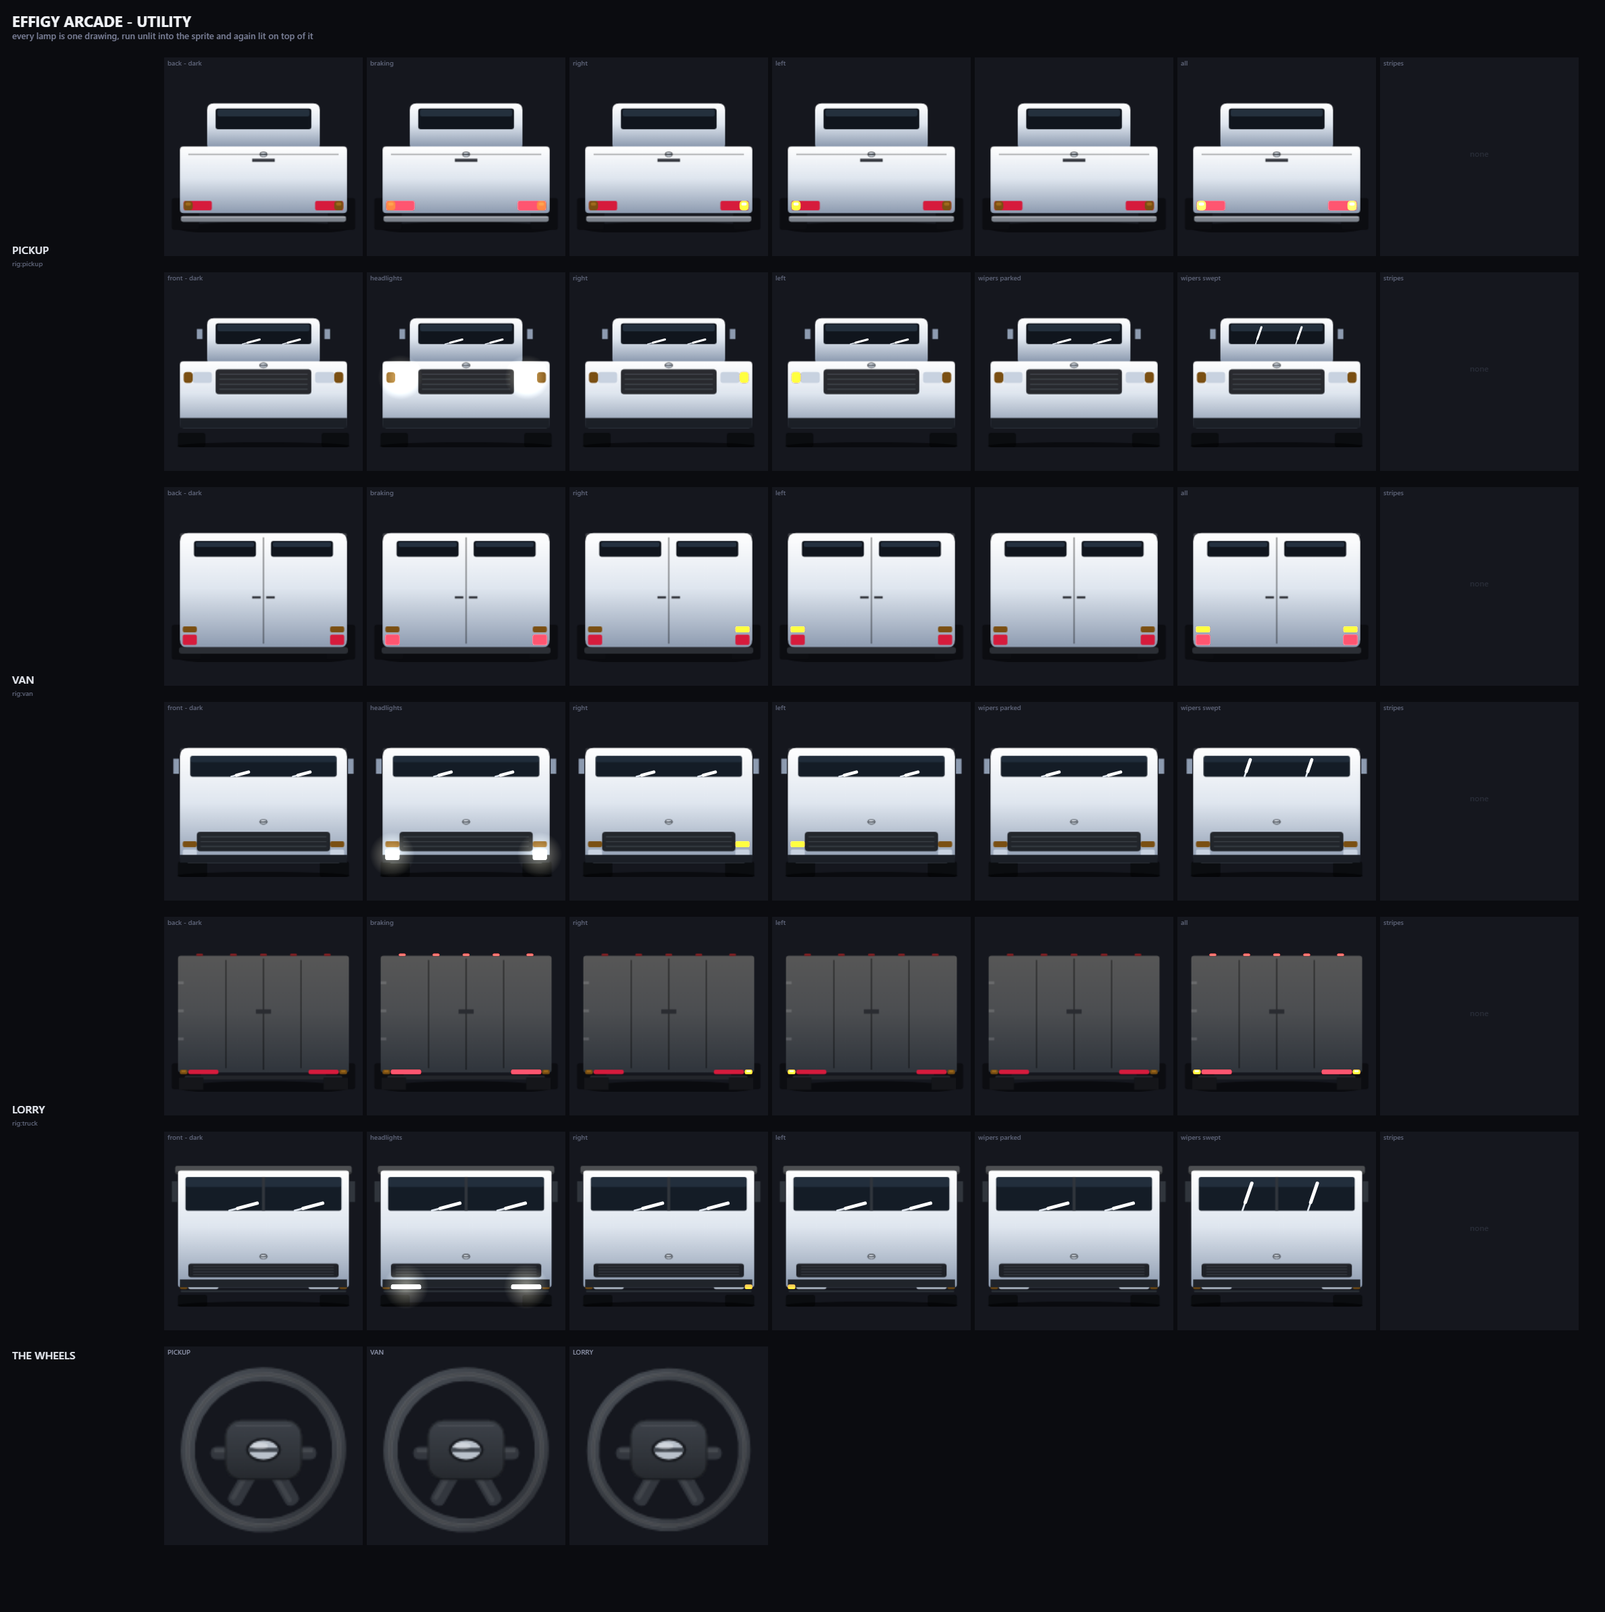
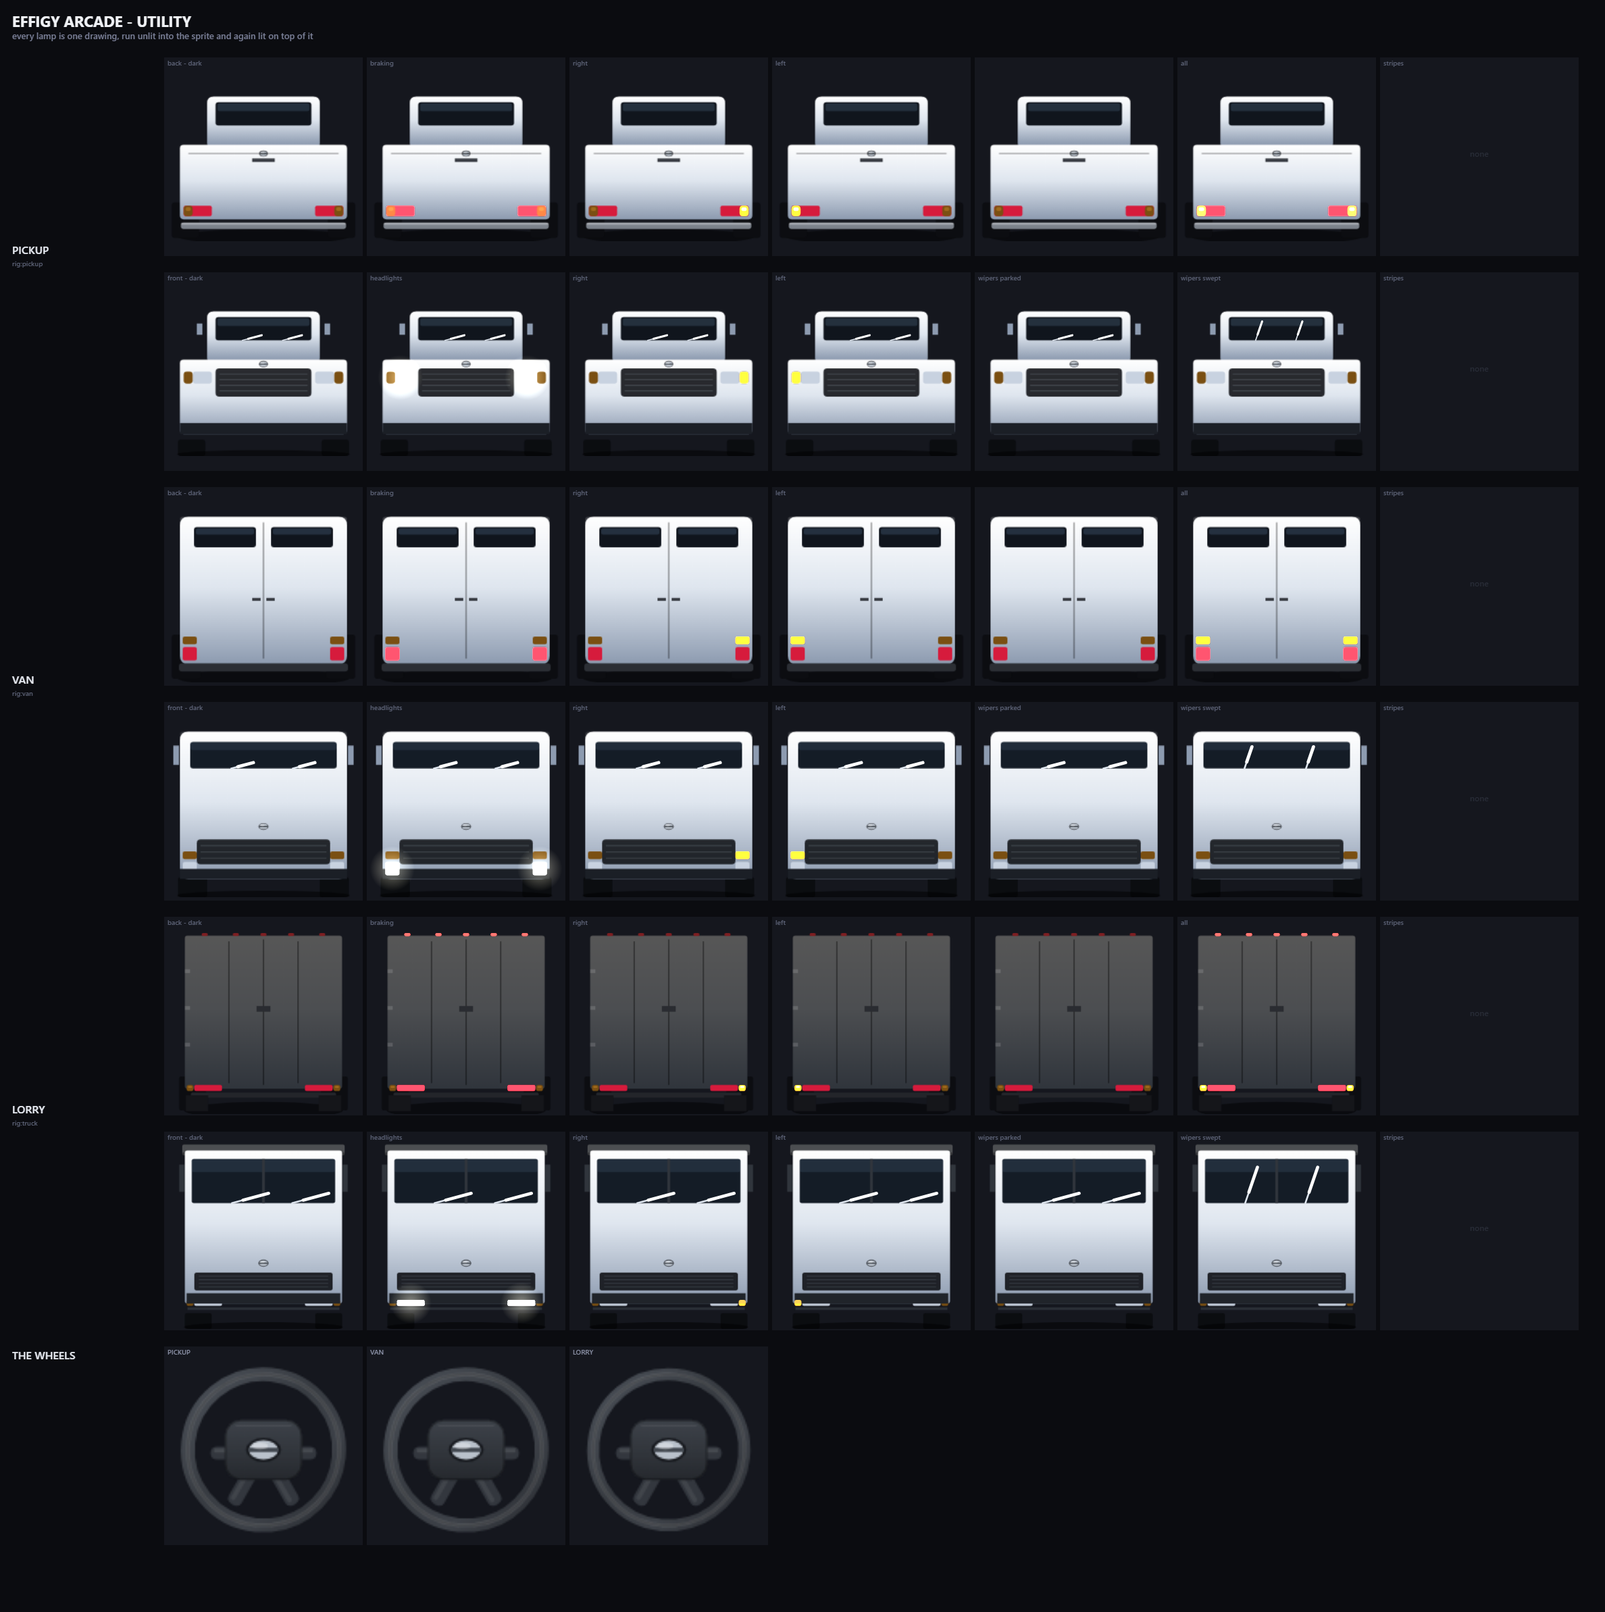
fix: one sprite box per shape, read by everything (RLG-072, v0.9.44)
The garage's two views were never misaligned. They were DIFFERENT SHAPES, and
two attempts to place them better could not have worked because placement was
never the fault. The owner said so three times.

`buildSprites` paints a road car's TAIL into that shape's own canvas - a
ROADSTER is 206x150 - and I had written its FACE into a flat 220x168. The same
car in two canvases of different aspect ratio comes out with different
proportions, and no amount of aligning boxes, floors or widths brings two
different shapes into agreement.

Measured properly, the painters agree with each other exactly: every road car
draws both ends into the same canvas at the same top row, and a supercar's two
ends are 143 rows tall in both of their differently-sized canvases. That is what
the owner meant by asking whether the fronts and rears had not been measured to
the same dimensions. They had. The garage was not using them that way.

The same flat 220x168 was in three other places, put there by the same hand for
the same reason: the rival front cache, the rival REAR cache, and the fleet
sheet. So every sports-class rival on the road has been drawn at the wrong
aspect ratio against the traffic version of the same shape. There is one
`rigBox(rig)` now and everything reads it.

Measured after: the two ends of a ROADSTER differ by 2 pixels in roof height, 0
in floor line and 2 in width, on a car drawn 126 wide. The waistline is 4 apart,
[…]

diff --git a/road.js b/road.js
@@ -80,7 +80,7 @@ const PLAYER_Z = CAM_H*CAM_D;
    worker serves scripts network-first with a cache fallback, so a device can end
    up with a fresh shell beside a cached engine, and the tag says MIXED when it
    does. Bumped with `Arcade.version`, in the same commit, every time. */
-window.ROAD_BUILD = '0.9.43';
+window.ROAD_BUILD = '0.9.44';
 
 const LANE_X = [-0.75,-0.25,0.25,0.75];
 /* ---- ONE LANE, and the unit every lateral move is written in ---------------
@@ -4310,12 +4310,35 @@ function rivalFront(bodyKey, paintKey){
   const rs = BODY[bodyKey], pt = PAINT[paintKey];
   if(!rs || !pt) return (RIVAL_FRONT_SP[k] = null);
   const L = { lamp:'#d61b3c', lamp2:'#ff7a86', player:true, marque:rs.rear };
+  const rz = rs.rig ? rigBox(rs.rig) : null;
   RIVAL_FRONT_SP[k] = rs.rig
-    ? sprite(220,168, paintRigFront(rs.rig, Object.assign({}, L, pt)))
+    ? sprite(rz[0], rz[1], paintRigFront(rs.rig, Object.assign({}, L, pt)))
     /* `bodyType`, not `kind` - `paintFront` reads the body from there, and
        passing the wrong field is what once put one nose on five supercars */
     : sprite(230,215, paintFront(Object.assign({ bodyType:bodyKey }, L, pt)));
   return RIVAL_FRONT_SP[k];
+}
+
+/* ---- A RIG'S SPRITE BOX, IN ONE PLACE -----------------------------------
+   Every road-car shape has its own canvas size, and getting it wrong does not
+   throw - it draws the same car at a different aspect ratio, which looks like a
+   layout fault and is not one. The garage found it: a ROADSTER's tail is
+   painted into 206x150 and its face was being painted into 220x168, so the two
+   ends of one car had different proportions and no amount of placing them could
+   line them up.
+
+   The table was already written down three times - in `buildSprites`, in the
+   traffic build and in the fleet sheet - and the fourth copy was the one that
+   was wrong. There is one now.
+   ------------------------------------------------------------------------- */
+function rigBox(rig){
+  return rig === 'muscle' ? [210,158]
+       : rig === 'cop'    ? [200,164]
+       : rig === 'van'    ? [200,196]
+       : rig === 'pickup' ? [206,176]
+       : rig === 'truck'  ? [230,250]
+       : rig === 'sedan' || rig === 'taxi' ? [200,164]
+       : [206,150];
 }
 
 function buildSprites(){
@@ -4331,13 +4354,7 @@ function buildSprites(){
        one on the road. The traffic tables have always had these numbers; the
        player build was the only place that did not use them.
        ------------------------------------------------------------------- */
-    const rz = shape.rig === 'muscle' ? [210,158]
-             : shape.rig === 'cop'    ? [200,164]
-             : shape.rig === 'van'    ? [200,196]
-             : shape.rig === 'pickup' ? [206,176]
-             : shape.rig === 'truck'  ? [230,250]
-             : shape.rig === 'sedan' || shape.rig === 'taxi' ? [200,164]
-             : [206,150];
+    const rz = rigBox(shape.rig);
     /* ---- THE TRAILER IS THE COLOUR, MUCH DARKER -------------------------
        It used to be a fixed beige panel, on the grounds that a lorry's box is
        the part that never changes. Owner, 2026-08-29: let it inherit a much
@@ -4358,7 +4375,8 @@ function buildSprites(){
       paintRig(shape.rig, Object.assign({ lamp:'#d61b3c', lamp2:'#ff7a86',
                                           player:true, marque:shape.rear,
                                           stripes:optStripes && stripesAllowed() }, rigPaint)));
-    SP.playerFront = sprite(220,168,
+    /* the SAME box as its tail. A different one is a different car. */
+    SP.playerFront = sprite(rz[0], rz[1],
       paintRigFront(shape.rig, Object.assign({ lamp:'#d61b3c', lamp2:'#ff7a86',
                                           player:true, marque:shape.rear,
                                           stripes:optStripes && stripesAllowed() }, rigPaint)));
@@ -4405,7 +4423,7 @@ function buildSprites(){
          A rig body goes through `paintRig`, the same painter its NPC version
          uses. */
       RIVAL_SP[bk+'|'+k] = rs.rig
-        ? sprite(220,168, paintRig(rs.rig, Object.assign({
+        ? sprite(rigBox(rs.rig)[0], rigBox(rs.rig)[1], paintRig(rs.rig, Object.assign({
             player:true, marque:rs.rear,
             lamp:'#d61b3c', lamp2:'#ff7a86'
           }, PAINT[k])))
@@ -11241,29 +11259,32 @@ function drawGarageCar(){
     return bx;
   };
 
-  /* ---- ONE CAR IS ONE WIDTH ---------------------------------------------
-     Drawing both ends at a SINGLE scale still looked wrong, and the owner was
-     right about it twice. The two painters do not draw the car at the same
-     size inside their own canvases: at one scale the front came out about nine
-     per cent wider and taller than the back, which reads as two different cars
-     rather than as two views of one.
+  /* ---- THE PAINTERS ALREADY AGREE. MEASURE, DO NOT CORRECT --------------
+     Two attempts at this were wrong in the same way: both assumed the front
+     and the rear disagreed about how big the car is, and set about correcting
+     it. Measured, they do not disagree. Every rig body draws its front and its
+     rear into the SAME canvas at the SAME top row - a COUPE is rows 37 to 164
+     from behind and 37 to 167 from the front - and a supercar's two ends are
+     143 rows tall in both of their different canvases.
 
-     A car is the same WIDTH from either end - that is the one dimension both
-     views share, and the one a person checks. So each end gets its own scale,
-     chosen so their solid bodywork comes out the same width, and the pair is
-     then sized so the taller of the two still fits the card. Height is left to
-     differ, because a front view genuinely is taller: it has a windscreen and
-     a roofline where the back has a boot lid.
+     What differs is where each view is WIDEST: a rear is widest at its
+     shoulder, about seven tenths of the way down, and a front is widest at its
+     bumper, about nine tenths. Normalising the two to a common WIDTH therefore
+     scales two different features to the same size and pulls the whole car
+     with them - which is what made the front nine per cent bigger and its
+     roofline sit high.
+
+     So: ONE scale for the pair, and each placed by its own content bottom.
+     Nothing is corrected, because there is nothing to correct.
      ------------------------------------------------------------------- */
   const FLOOR = 124, HALF = 150, PAD = 12;
   const pair = front ? [back, front] : [back];
   const boxes = pair.map(bounds);
-  /* the widest the pair can be drawn with the tallest of them still fitting */
-  let targetW = HALF - PAD*2;
-  for(const bx of boxes) targetW = Math.min(targetW, (FLOOR - 8) * (bx.w / bx.h));
+  const maxW = Math.max.apply(null, boxes.map(b => b.w));
+  const maxH = Math.max.apply(null, boxes.map(b => b.h));
+  const sc = Math.min((HALF - PAD*2) / maxW, (FLOOR - 8) / maxH);
   const put = (img, box, cx) => {
     if(!img) return;
-    const sc = targetW / box.w;
     /* place the CONTENT: its centre on cx, its bottom on the floor */
     const dx = cx - (box.x + box.w/2)*sc;
     const dy = FLOOR - (box.y + box.h)*sc;
@@ -12313,6 +12334,9 @@ requestAnimationFrame(frameLoop);
   API.accelOf = function(k){ return +accelOf(k).toFixed(3); };
   API.brakeOf = function(k){ return +brakeOf(k).toFixed(3); };
   API.setBody = function(k){ optBody = k; buildSprites(); syncBoxClass(); };
+  /* which car the player is actually in. A harness that asserts a speed has to
+     know what it is sitting in, or it reports the fleet as an engine fault. */
+  API.bodyKey = function(){ return optBody; };
   API.launchKick = function(){ return launchKick; };
   API.cops = function(){ return cops; };
   API.heat = function(v){ if(v!==undefined) heat=v; return heat; };
@@ -12414,13 +12438,15 @@ requestAnimationFrame(frameLoop);
       /* the rival cache is keyed by paint, and it only holds the ordinary
          white one - a livery that is not in it is built here the same way */
       const rear = (pKey === 'WHITE' && !LIVERY[k] && RIVAL_SP[k+'|WHITE']) || (rs.rig
-        ? sprite(220,168, paintRig(rs.rig, Object.assign({ player:true, marque:rs.rear,
+        ? sprite(rigBox(rs.rig)[0], rigBox(rs.rig)[1],
+            paintRig(rs.rig, Object.assign({ player:true, marque:rs.rear,
             lamp:'#d61b3c', lamp2:'#ff7a86' }, rigPt)))
         : sprite(220,168, paintCar(Object.assign({ cabin:true, spoiler:true, shape:rs,
             bodyKey:k, bodyTop:rs.bodyTop, cabinTop:rs.cabinTop, force:!!rs.force,
             lamp:'#d61b3c', lamp2:'#ff7a86' }, pCol))));
       const front = rs.rig
-        ? sprite(220,168, paintRigFront(rs.rig, Object.assign({ player:true, marque:rs.rear,
+        ? sprite(rigBox(rs.rig)[0], rigBox(rs.rig)[1],
+            paintRigFront(rs.rig, Object.assign({ player:true, marque:rs.rear,
             lamp:'#d61b3c', lamp2:'#ff7a86' }, rigPt)))
         /* `paintFront` takes the body under `bodyType` - `o.body` is a COLOUR on
            every other painter, and the comment inside it says so. Passing `kind`
@@ -12441,13 +12467,15 @@ requestAnimationFrame(frameLoop);
          ---------------------------------------------------------------- */
       const striped = stripesOn(k);
       const rearS = !striped ? null : (rs.rig
-        ? sprite(220,168, paintRig(rs.rig, Object.assign({ player:true, marque:rs.rear,
+        ? sprite(rigBox(rs.rig)[0], rigBox(rs.rig)[1],
+            paintRig(rs.rig, Object.assign({ player:true, marque:rs.rear,
             stripes:true, lamp:'#d61b3c', lamp2:'#ff7a86' }, rigPt)))
         : sprite(220,168, paintCar(Object.assign({ cabin:true, spoiler:true, shape:rs,
             bodyKey:k, bodyTop:rs.bodyTop, cabinTop:rs.cabinTop, force:!!rs.force,
             stripes:true, lamp:'#d61b3c', lamp2:'#ff7a86' }, pCol))));
       const frontS = !striped ? null : (rs.rig
-        ? sprite(220,168, paintRigFront(rs.rig, Object.assign({ player:true, marque:rs.rear,
+        ? sprite(rigBox(rs.rig)[0], rigBox(rs.rig)[1],
+            paintRigFront(rs.rig, Object.assign({ player:true, marque:rs.rear,
             stripes:true, lamp:'#d61b3c', lamp2:'#ff7a86' }, rigPt)))
         : sprite(230,215, paintFront(Object.assign({ bodyType:k, marque:rs.rear,
             player:true, stripes:true, lamp:'#d61b3c', lamp2:'#ff7a86' }, pCol))));

diff --git a/arcade.js b/arcade.js
@@ -44,7 +44,7 @@ var A = window.Arcade = window.Arcade || {};
    over would have said "nearly done" about work that has barely started. The
    version tracks THIS product. The maturity of the engine underneath it is
    recorded in the git history, which came across whole. */
-A.version = '0.9.43';
+A.version = '0.9.44';
 
 /* ---- WHICH BUILD AM I PLAYING? -------------------------------------------
    Asked for by the owner, 2026-08-29, and it is a testing tool rather than

diff --git a/tools/drive-test.py b/tools/drive-test.py
@@ -38,9 +38,13 @@ GAMES = {
     'motorsport': 'games/sw/motorsport.html',
 }
 
-# Every car the garage must offer from a clean save. Both classes are
-# unlocked from the start; FORMULA and the traffic bodies are not.
-EXPECTED_CARS = ['ROADSTER', 'TUNER', 'MUSCLE', 'STALLION', 'MATADOR', 'CREST']
+# Every car the garage must offer from a clean save. RLG-070 made the ladder: a fresh install holds
+# the SPORTS class and nothing else, and each gold opens the class above it. This list was the two
+# classes together, from when the supercars were free - so it started failing the moment the ladder
+# landed, which is the check doing its job.
+EXPECTED_CARS = ['ROADSTER', 'TUNER', 'MUSCLE']
+# and the ones that must NOT be there until they are earned
+LOCKED_CARS = ['STALLION', 'MATADOR', 'CREST', 'VECTOR', 'APEX', 'COMET', 'CAB', 'VAN', 'LORRY']
 
 
 # --- capture the engine before it runs ---------------------------------------
@@ -345,7 +349,21 @@ def drive(page, res, seconds, is_circuit):
     samples = page.evaluate('() => window.__probe.log')
     peak = page.evaluate('() => window.__probe.peakMph')
 
-    res.check(peak > 150, 'speed rises above 150mph', f'peak {peak:.0f}mph')
+    # ---- THE CAR THIS IS MEASURED IN --------------------------------------
+    # 150mph was a MATADOR's number, from when a fresh save started in one. The ladder starts the
+    # player in a ROADSTER, which tops out at 153 - so the assertion could not be met by the car
+    # the harness was driving, and the failure said "the engine is slow" when it meant "the
+    # garage changed".
+    #
+    # The threshold follows the CAR now: the engine has to get this driver to nine tenths of
+    # whatever the car it is sitting in can do. That is a statement about the engine rather than
+    # about the fleet, so it survives the next retune.
+    top = page.evaluate('() => { const R = window.__probe.road;'
+                        ' const k = R.bodyKey ? R.bodyKey() : "ROADSTER";'
+                        ' return (R.BODY[k] || {}).vmax || 0.765; }')
+    want = 0.90 * top * 200
+    res.check(peak > want, f'speed rises above {want:.0f}mph (nine tenths of this car)',
+              f'peak {peak:.0f}mph')
 
     # ---- THE NEEDLE MUST NEVER GO PAST THE LIMITER ------------------------
     # A slipstream that scaled the GEAR ceiling as well as the aero one spun

diff --git a/docs/fragments/RLG-072.md b/docs/fragments/RLG-072.md
@@ -46,3 +46,33 @@ fits its half, with their content bottoms on the same line.
 The alpha threshold is not zero on purpose: a sprite's ground shadow fades to nothing at its edge,
 and counting the last almost-transparent pixel as part of the car puts the floor line below anything
 the car actually reaches.
+- **RULED 2026-08-29T11:44:55-04:00** — THE CARS WERE NOT MISALIGNED. THEY WERE DIFFERENT SHAPES, and two attempts to place them better could
+not have worked, because placement was never the fault. The owner said it three times and was right
+every time; each of my first two fixes measured the wrong thing and then declared victory on it.
+
+WHAT THE MEASUREMENT ACTUALLY SAID, once it was pointed at the sprites rather than at the card. Every
+road car draws its front and its rear into the SAME canvas at the SAME top row - a COUPE is rows 37
+to 164 from behind and 37 to 167 from the front - and a supercar's two ends are 143 rows tall in both
+of their differently-sized canvases. The painters agree with each other exactly, which is what the
+owner said when he asked whether the two ends had not been measured to the same dimensions.
+
+THE FAULT WAS A HARDCODED SPRITE BOX. `buildSprites` paints the player's TAIL into that shape's own
+canvas - a ROADSTER is 206x150 - and I had written its FACE into a flat 220x168. The same car in two
+canvases of different aspect ratio comes out with different proportions, and no amount of aligning
+boxes, floors or widths can bring two different shapes into agreement.
+
+The same flat 220x168 was in three other places, put there by the same hand for the same reason: the
+rival front cache, the rival REAR cache, and the fleet sheet. So every sports-class rival on the road
+has been drawn at the wrong aspect ratio against the traffic version of the same shape.
+
+There is one `rigBox(rig)` now and everything reads it. The table already existed in `buildSprites`
+and in the traffic build; the copies that were wrong were the ones written from memory.
+
+MEASURED AFTER: the two ends of a ROADSTER differ by 2 pixels in roof height, 0 in floor line and 2
+in width, on a car drawn 126 pixels wide. What remains is the waistline, four pixels apart, because a
+bonnet line sits higher than a boot line on the same car - which is the car rather than the drawing.
+
+THE LESSON, and it is about the checking rather than about the sprites. Twice I measured the thing I
+had just changed - bounding boxes on the card - and reported it as agreement. Neither measurement
+could see the fault, because the fault was upstream of both. WHEN A FIX DOES NOT CONVINCE THE PERSON
+LOOKING AT IT, MEASURE SOMETHING THE FIX DOES NOT TOUCH.

diff --git a/docs/core/changelog.md b/docs/core/changelog.md
@@ -14,6 +14,19 @@ barely started, and 0.9.x would have claimed otherwise.
 
 ---
 
+<a id="v0-9-44"></a>
+## [0.9.44] - 2026-08-29
+- Fixed: **the player's front sprite is built in the same box as its rear.** The garage's two views
+  were not misaligned, they were different shapes: a road car's tail is painted into that shape's own
+  canvas and its face was being painted into a flat 220x168, so the same car came out with different
+  proportions. The same hardcoded box was in three other places, including the rival caches - so
+  every sports-class rival on the road was drawn at the wrong aspect ratio. One `rigBox()` now, read
+  by all of them ([RLG-072](../fragments/RLG-072.md)).
+- Fixed: **drive-test knows about the ladder.** It expected the supercars in the garage and asserted
+  150mph in a car that now tops out at 153 - so a garage change reported itself as a slow engine. It
+  expects the sports class and asserts nine tenths of whatever car it is sitting in
+  ([RLG-070](../fragments/RLG-070.md)).
+
 <a id="v0-9-43"></a>
 ## [0.9.43] - 2026-08-29
 - Fixed: **an old save no longer starts with the supercars.** The migration that protects a returning
